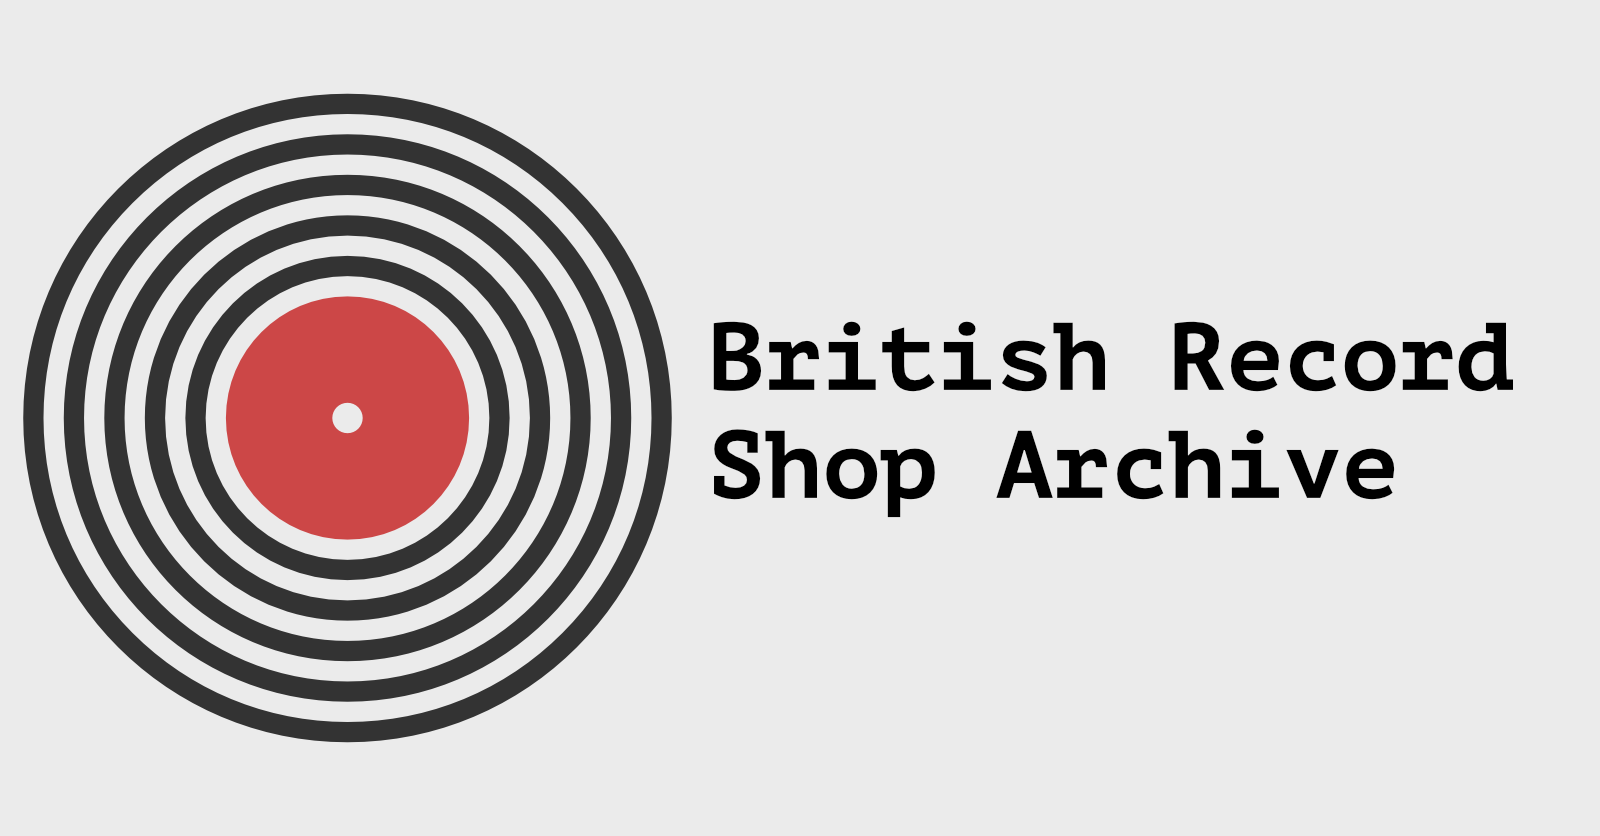
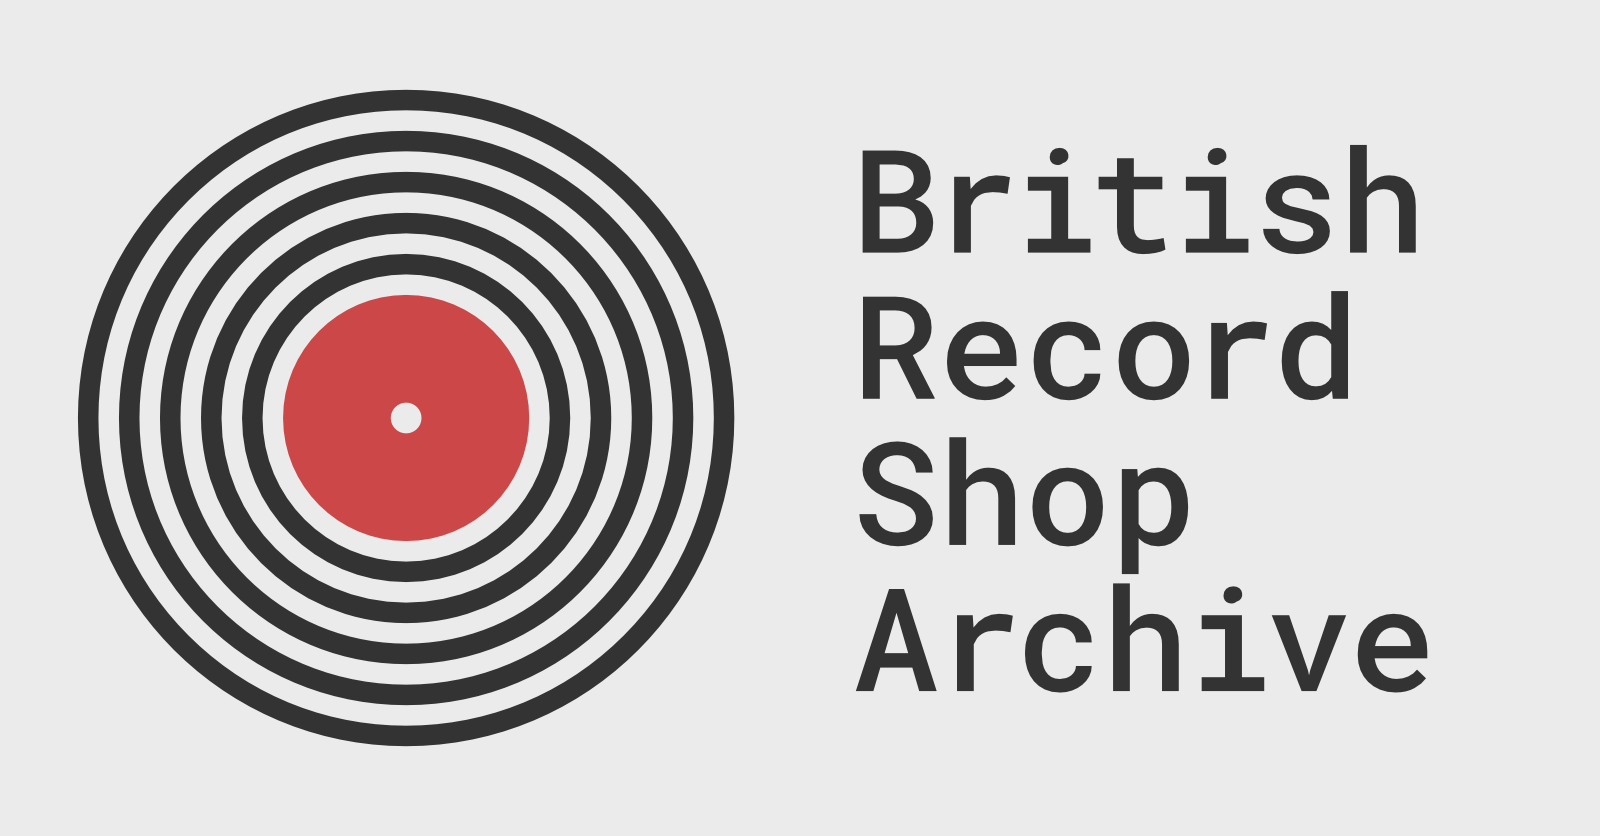
Mapcha and tweaks

Changed region(s): [[0.0, 0.0933, 0.9688, 0.9019], [0.5312, 0.1555, 0.9062, 0.311]]

diff --git a/site/templates/css/20_typography.css b/site/templates/css/20_typography.css
@@ -82,7 +82,6 @@ caption,
     color:white;
 }
 
-
 h1,
 .site_title_link{
     display: flex;
@@ -90,14 +89,16 @@ h1,
     font-weight: var(--strong);
     text-decoration: none;
     color:black;
-    font-size:clamp(1.1rem, 2.2vw, 2.8rem);
+    font-size:var(--step-3);
+	line-height: 1.2;
 }
 
 h2, .h2{
-    font-size: 2.25rem;
+    font-size:var(--step-2);
     font-weight: var(--strong);
     margin-top:0;
     margin-bottom: 1rem;
+	line-height: 1.2;
 }
 
 h3, .h3{
@@ -196,7 +197,7 @@ h3, .h3{
 }
 
 .text-measure {
-	max-width: 620px;
+	max-width: 68ch;
 }
 
 .text-right{

diff --git a/site/templates/css/00_millco_base.css b/site/templates/css/00_millco_base.css
@@ -137,6 +137,9 @@ html {
   -moz-text-size-adjust: none;
   -webkit-text-size-adjust: none;
   text-size-adjust: none;
+
+  scrollbar-color: var(--theme) var(--dark); /* Two valid colours.
+  The first applies to the thumb of the scrollbar, the second to the track. */
 }
 
 html,
@@ -153,7 +156,8 @@ body {
   font-family: var(--font-sans);
   scroll-behavior: smooth;
   position:relative;
-}
+
+  }
 
 /*=============================
   Link

diff --git a/site/templates/css/40_components.css b/site/templates/css/40_components.css
@@ -112,19 +112,9 @@
   }
 
   .homepage_search .search-form{
-    max-width: 1200px;
+    max-width: 1300px;
   }
 
-}
-
-
-.search_label{
-  display: none;
-  align-content: center;
-  font-weight:var(--strong);
-  padding-right: 1rem;
-  color:black;
-  background-color: white;
 }
 
 #search-box{

diff --git a/site/templates/css/10_layout.css b/site/templates/css/10_layout.css
@@ -9,11 +9,10 @@ body{
 
 
 .container{
-    max-width: 1200px;
+    max-width: 1400px;
     margin-left: auto;
     margin-right: auto;
 }
-
 
 header{
     background-color: var(--dark);

diff --git a/site/templates/map.php b/site/templates/map.php
@@ -15,37 +15,97 @@ $shop_locations = $cache->get('shop_locations', 2592000, function () { // month 
 	// this is called if cache expired or does not exist,
 	// so generate a new cache value here and return it
 
-	$shops = wire('pages')->find("template=shop,limit=10000");
+	// // TODO: This is slow. I think we need to pull this from the db directly ... but not sure how.
+	// $shops = wire('pages')->find("template=shop,limit=10000");
 
-	$shop_locations = array();
+	// $shop_locations = array();
 
-	foreach ($shops as $shop) {
+	// foreach ($shops as $shop) {
 
-		if ($shop->addresses->count) {
+	// 	if ($shop->addresses->count) {
 
-			foreach ($shop->addresses as $address) {
+	// 		foreach ($shop->addresses as $address) {
 
-				if ($address->location) {
+	// 			if ($address->location) {
 
-					$shop_location = array();
-					$shop_location['title'] = $shop->title;
+	// 				$shop_location = array();
+	// 				$shop_location['title'] = $shop->title;
 
-					// must do a function somewhere (init) for this.
-					$location = explode(',', $address->location);
-					$lat = $location[0];
-					$lng = $location[1];
+	// 				// must do a function somewhere (init) for this.
+	// 				$location = explode(',', $address->location);
+	// 				$lat = $location[0];
+	// 				$lng = $location[1];
 
-					$shop_location['lat'] = $lat;
-					$shop_location['lng'] = $lng;
+	// 				$shop_location['lat'] = $lat;
+	// 				$shop_location['lng'] = $lng;
 
-					$shop_location['url'] = $shop->url;
-					$shop_location['town'] = $address->town->title;
+	// 				$shop_location['url'] = $shop->url;
+	// 				$shop_location['town'] = $address->town->title;
 
-					$shop_locations[] = $shop_location;
-				}
+	// 				$shop_locations[] = $shop_location;
+	// 			}
+	// 		}
+	// 	}
+	// }
+
+
+	// Ensure PagePaths module is installed so that URL is available to findRaw()
+	$shop_data = wire('pages')->findRaw("template=shop", ['title', 'url', 'addresses'], ['nulls' => true, 'flat' => true]);
+
+	// Load all our addresses that have locations
+	$location_data = wire('pages')->findRaw("template=repeater_addresses,location!=null, check_access=0", ['location','town.title'], ['nulls' => true, 'flat' => true]);
+
+	$shop_locations = [];
+
+	// Loop over the shop data and see if we have the lat/lng for each location, matching by repeater page ID
+
+	foreach($shop_data as $id => $item) {
+
+		$add_to_shops=0;
+		
+		// do we have locations for this shop?
+		$location_ids = explode(',', $item['addresses.data']);
+
+		foreach($location_ids as $location_id) {
+
+			if(!isset($location_data[$location_id])) continue; // just double check,
+
+			$shop_location = array();
+			$shop_location['title'] = $item['title'];
+
+			// must do a function somewhere (init) for this.
+			$location_string=$location_data[$location_id]['location'];
+			$location = explode(',', $location_string);
+			$lat = $location[0];
+			$lng = $location[1];
+
+			$shop_location['lat'] = $lat;
+			$shop_location['lng'] = $lng;
+
+			$shop_location['url'] = $item['url'];
+
+			$town_array=$location_data[$location_id]['town.title'];
+
+			if(is_array($town_array)) {
+				$town=reset($town_array); // get the valie of the first item in this named array.
+
+			}else{
+ $town='';
 			}
+			
+
+			$shop_location['town'] = $town;
+
+			// push this to our shops locations.
+			$shop_locations[] = $shop_location;
+
 		}
+
 	}
+
+
+
+
 	return $shop_locations;
 });
 

diff --git a/site/templates/profiling.php b/site/templates/profiling.php
@@ -1,0 +1,94 @@
+<?php
+
+namespace ProcessWire;
+
+/**
+ * CAn we do something fancy with matching maps to addresses?
+ * 
+ */
+
+if (!$user->isLoggedin()) {
+
+	die("Need to be logged in.");
+}
+
+
+
+?>
+<div id="millco_main">
+
+<p>This is just a page for me to experiment with some experiments.</p>
+
+<p>Current (all pages) takes 25 seconds.</p>
+<?php
+
+// this is the current way:
+$shops = wire('pages')->find("template=shop,limit=10000");
+
+	$shop_locations = array();
+
+	// foreach ($shops as $shop) {
+
+	// 	if ($shop->addresses->count) {
+
+	// 		foreach ($shop->addresses as $address) {
+
+	// 			if ($address->location) {
+
+	// 				$shop_location = array();
+	// 				$shop_location['title'] = $shop->title;
+
+	// 				// must do a function somewhere (init) for this.
+	// 				$location = explode(',', $address->location);
+	// 				$lat = $location[0];
+	// 				$lng = $location[1];
+
+	// 				$shop_location['lat'] = $lat;
+	// 				$shop_location['lng'] = $lng;
+
+	// 				$shop_location['url'] = $shop->url;
+	// 				$shop_location['town'] = $address->town->title;
+
+	// 				$shop_locations[] = $shop_location;
+	// 			}
+	// 		}
+	// 	}
+	// }
+
+ // Access the ProcessWire database object
+ $db = wire('database');
+
+ // 1. Querying the database directly using the $db object.
+ try {
+	 // Prepare the SQL query
+	 $query = $db->prepare("SELECT * FROM pages WHERE templates_id = :templates_id");
+
+	 // Bind the parameter
+	 $query->bindParam(':templates_id', $templates_id, \PDO::PARAM_INT);
+
+	 // Set the value for templates_id (53 in this case)
+	 $templates_id = 53;
+
+	 // Execute the query
+	 $query->execute();
+
+	 // Fetch the results as an associative array
+	 $shops = $query->fetchAll(\PDO::FETCH_ASSOC);
+
+ } catch (\PDOException $e) {
+	 echo "Error: " . $e->getMessage();
+ }
+	
+ 	$names=array();
+
+	foreach($shops as $shop){
+		$name="for-page-{$shop['id']}";
+		$names[]=$name;
+	}
+
+	print_r($names);
+
+	print_r($shop_locations);
+
+?>
+</div>

diff --git a/site/templates/mapcha.php b/site/templates/mapcha.php
@@ -85,7 +85,7 @@ if($input->get("ana") && $input->get("ana")> 1 ){
 	$shop_page = $pages->get($erp);
 	if ($shop_page && $shop_page->id) {
 		
-		echo '<a href="' . $shop_page->url . '">' . $shop_page->title . '</a> ';
+		echo '<a href="' . $shop_page->url . '" target="_blank">' . $shop_page->title . '</a> ';
 
 	} else {
 		echo 'oooh ... dunno what shop this belongs to, thats not good.';
@@ -111,7 +111,7 @@ if($input->get("ana") && $input->get("ana")> 1 ){
 </form>
 
 
-<a class="butt" href="<?=$shop_page->url?>">Edit shop</a>
+<a class="butt" href="<?=$shop_page->url?>" target="_blank">Edit shop</a>
 
 
 <a class="butt" href="<?=$page->url?>">Next!</a>

diff --git a/site/templates/includes/og_tags.php b/site/templates/includes/og_tags.php
@@ -57,11 +57,8 @@ if($site_url_canonical==''){
     <meta property="og:type" content="website">
     <?php
 
-    $ogimage='/site/assets/images/socmed_landscape.png';// our default OG image 
-    // on EB that's the same as twitter for some reason.
-
-    // OG image
-
+    $ogimage='/site/assets/images/socmed_landscape.png?v=2';// our default OG image 
+	
     $image = $page->featured_image;
 
     if($image){
@@ -85,7 +82,7 @@ if($site_url_canonical==''){
     <?php
 
     $twimage='/site/assets/images/socmed_square.png';// our default card image
-
+	
     // do we have a featured image?
     $image = $page->featured_image;
 

diff --git a/site/templates/home.php b/site/templates/home.php
@@ -22,7 +22,7 @@ namespace ProcessWire;
 
     <div class="homepage_search">
         <form action="/search/" id="search-form" class="search-form">
-            <label for="search-box" class="search_label">Search</label>
+            <label for="search-box" class="search_label sr-only">Search</label>
             <div class="search_box_layout">
             <input id="search-box" class="search-box" 
 type="text"
